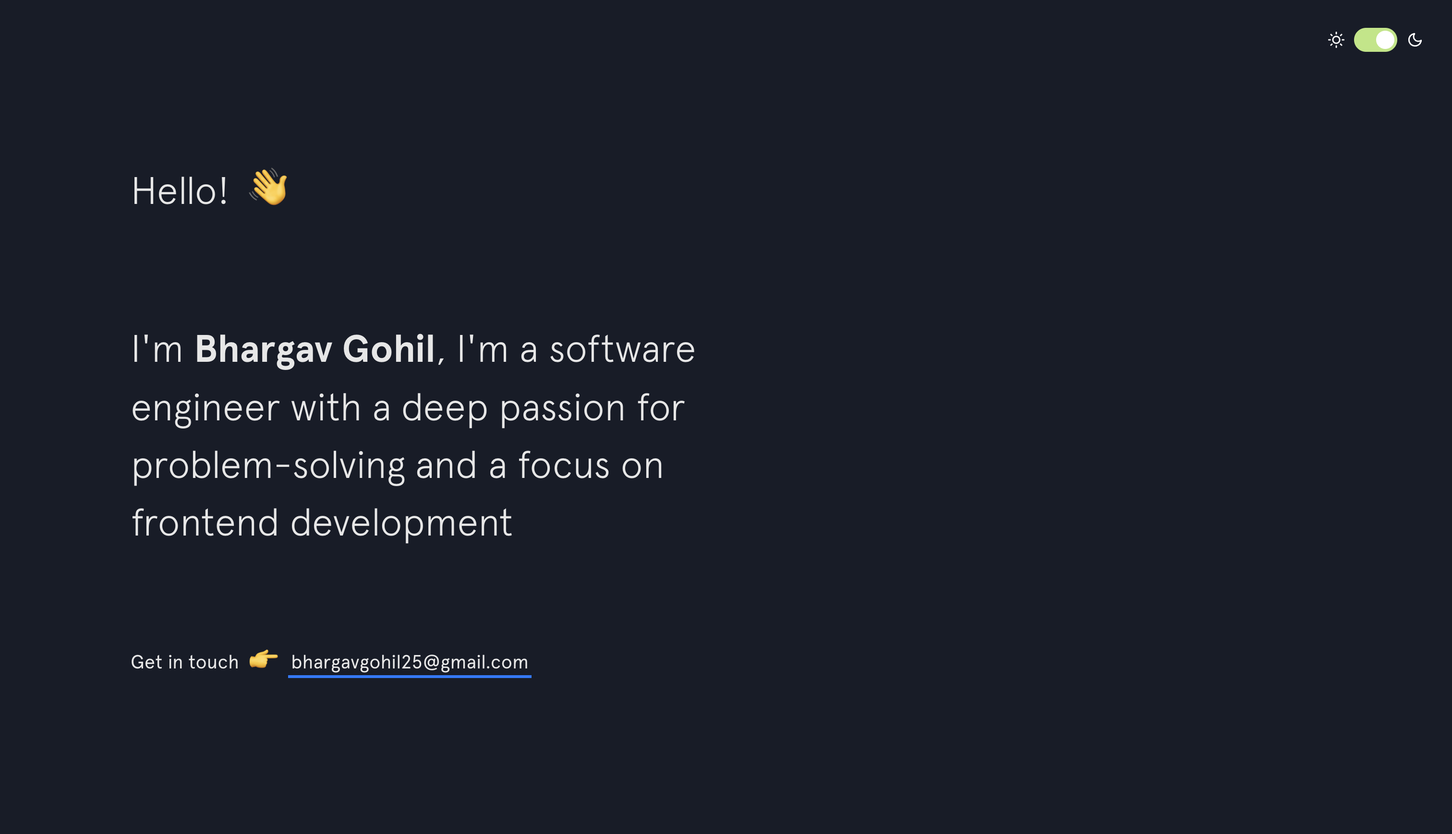
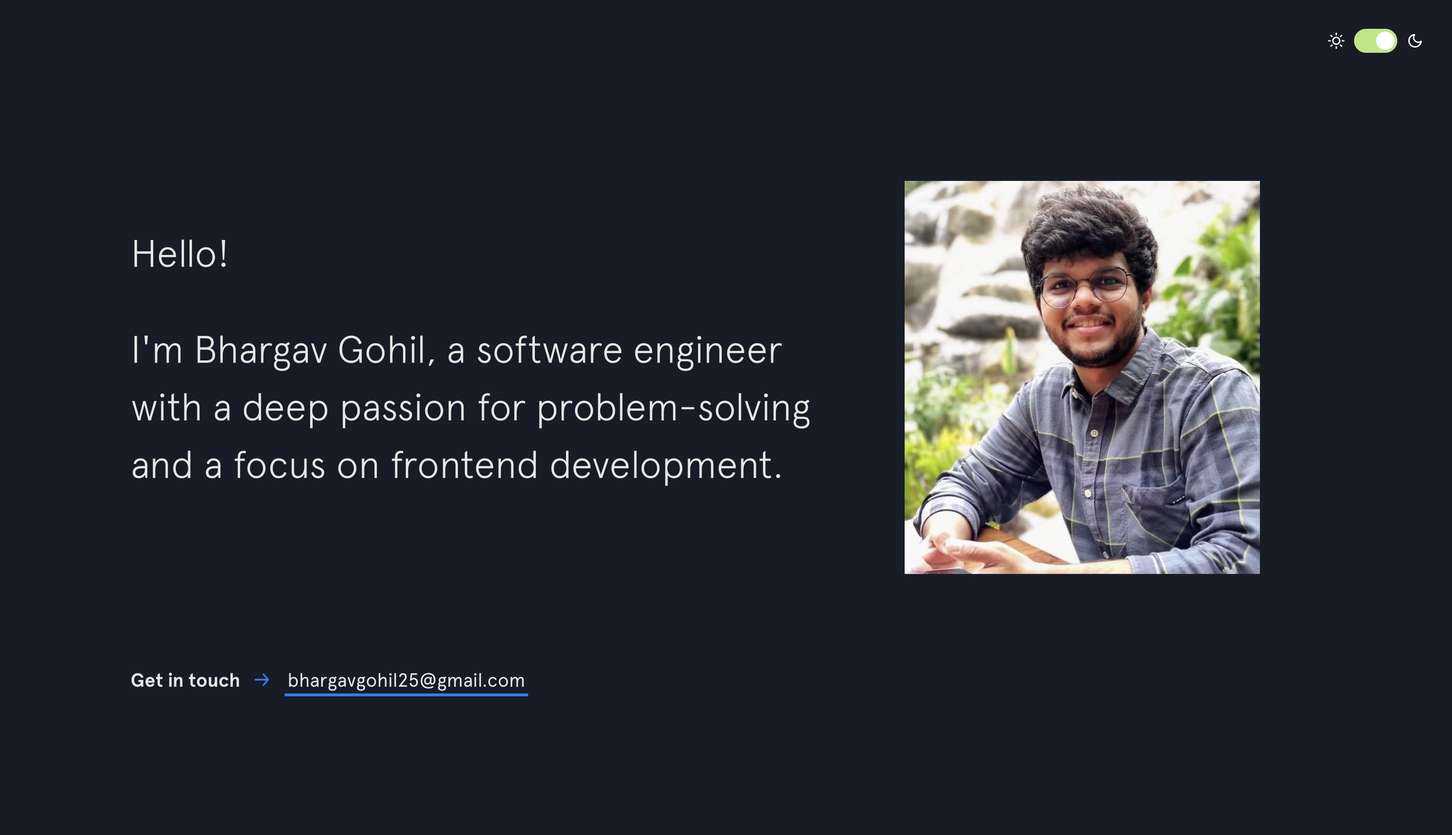
update

diff --git a/css/main.css b/css/main.css
@@ -1,1 +1,1 @@
-@font-face{font-family:Apercu;src:url(../fonts/apercu/Apercu-Light.eot);src:url(../fonts/apercu/Apercu-Light.eot?#iefix) format("embedded-opentype"),url(../fonts/apercu/Apercu-Light.woff2) format("woff2"),url(../fonts/apercu/Apercu-Light.woff) format("woff"),url(../fonts/apercu/Apercu-Light.ttf) format("truetype"),url(../fonts/apercu/Apercu-Light.svg#Apercu-Light) format("svg");font-weight:300;font-style:normal}@font-face{font-family:Apercu;src:url(../fonts/apercu/Apercu-LightItalic.eot);src:url(../fonts/apercu/Apercu-LightItalic.eot?#iefix) format("embedded-opentype"),url(../fonts/apercu/Apercu-LightItalic.woff2) format("woff2"),url(../fonts/apercu/Apercu-LightItalic.woff) format("woff"),url(../fonts/apercu/Apercu-LightItalic.ttf) format("truetype"),url(../fonts/apercu/Apercu-LightItalic.svg#Apercu-LightItalic) format("svg");font-weight:300;font-style:italic}@font-face{font-family:Apercu;src:url(../fonts/apercu/Apercu-Regular.eot);src:url(../fonts/apercu/Apercu-Regular.eot?#iefix) format("embedded-opentype"),url(../fonts/apercu/Apercu-Regular.woff2) format("woff2"),url(../fonts/apercu/Apercu-Regular.woff) format("woff"),url(../fonts/apercu/Apercu-Regular.ttf) format("truetype"),url(../fonts/apercu/Apercu-Regular.svg#Apercu-Regular) format("svg");font-weight:400;font-style:normal}@font-face{font-family:Apercu;src:url(../fonts/apercu/Apercu-Italic.eot);src:url(../fonts/apercu/Apercu-Italic.eot?#iefix) format("embedded-opentype"),url(../fonts/apercu/Apercu-Italic.woff2) format("woff2"),url(../fonts/apercu/Apercu-Italic.woff) format("woff"),url(../fonts/apercu/Apercu-Italic.ttf) format("truetype"),url(../fonts/apercu/Apercu-Italic.svg#Apercu-Italic) format("svg");font-weight:400;font-style:italic}@font-face{font-family:Apercu;src:url(../fonts/apercu/Apercu-Medium.eot);src:url(../fonts/apercu/Apercu-Medium.eot?#iefix) format("embedded-opentype"),url(../fonts/apercu/Apercu-Medium.woff2) format("woff2"),url(../fonts/apercu/Apercu-Medium.woff) format("woff"),url(../fonts/apercu/Apercu-Medium.ttf) format("truetype"),url(../fonts/apercu/Apercu-Medium.svg#Apercu-Medium) format("svg");font-weight:500;font-style:normal}@font-face{font-family:Apercu;src:url(../fonts/apercu/Apercu-MediumItalic.eot);src:url(../fonts/apercu/Apercu-MediumItalic.eot?#iefix) format("embedded-opentype"),url(../fonts/apercu/Apercu-MediumItalic.woff2) format("woff2"),url(../fonts/apercu/Apercu-MediumItalic.woff) format("woff"),url(../fonts/apercu/Apercu-MediumItalic.ttf) format("truetype"),url(../fonts/apercu/Apercu-MediumItalic.svg#Apercu-MediumItalic) format("svg");font-weight:500;font-style:italic}@font-face{font-family:Apercu;src:url(../fonts/apercu/Apercu-Bold.eot);src:url(../fonts/apercu/Apercu-Bold.eot?#iefix) format("embedded-opentype"),url(../fonts/apercu/Apercu-Bold.woff2) format("woff2"),url(../fonts/apercu/Apercu-Bold.woff) format("woff"),url(../fonts/apercu/Apercu-Bold.ttf) format("truetype"),url(../fonts/apercu/Apercu-Bold.svg#Apercu-Bold) format("svg");font-weight:700;font-style:normal}@font-face{font-family:Apercu;src:url(../fonts/apercu/Apercu-BoldItalic.eot);src:url(../fonts/apercu/Apercu-BoldItalic.eot?#iefix) format("embedded-opentype"),url(../fonts/apercu/Apercu-BoldItalic.woff2) format("woff2"),url(../fonts/apercu/Apercu-BoldItalic.woff) format("woff"),url(../fonts/apercu/Apercu-BoldItalic.ttf) format("truetype"),url(../fonts/apercu/Apercu-BoldItalic.svg#Apercu-BoldItalic) format("svg");font-weight:700;font-style:italic}html{-webkit-box-sizing:border-box;box-sizing:border-box}*,:after,:before{-webkit-box-sizing:inherit;box-sizing:inherit}::-moz-selection{background:#ffdc00}::selection{background:#ffdc00}body,html{margin:0;padding:0;-webkit-font-smoothing:antialiased;-moz-osx-font-smoothing:grayscale;background-color:#fff;color:#444452;font-family:Apercu,"Source Sans Pro",system,system-ui,-apple-system,BlinkMacSystemFont,Roboto,Helvetica,Arial,sans-serif;line-height:1.5;width:100%}body.night,html.night{background-color:#171c28;color:#afafbf}body.night ::-moz-selection,html.night ::-moz-selection{color:#36363c;background:#ffdc00}body.night ::selection,html.night ::selection{color:#36363c;background:#ffdc00}body.night .switch-wrapper .sun,html.night .switch-wrapper .sun{background:url(../img/switch/sun-white.svg) no-repeat center;background-size:100%}body.night .switch-wrapper .moon,html.night .switch-wrapper .moon{background:url(../img/switch/moon-white.svg) no-repeat center;background-size:100%}body.night .experience .job__time,body.night .footer__copyright,body.night .intro,body.night .skills .skillz__category__label,body.night .status,body.night a,body.night strong,html.night .experience .job__time,html.night .footer__copyright,html.night .intro,html.night .skills .skillz__category__label,html.night .status,html.night a,html.night strong{color:#e7e7e7}body.night .section__content .underline-link:after,html.night .section__content .underline-link:after{background:#e7e7e7}a{-webkit-transition:all .2s ease-in-out;transition:all .2s ease-in-out;text-decoration:none;font-weight:700;color:inherit}ul{list-style:none;padding:0;margin:0}svg{width:100%;height:100%;fill:currentColor}img{max-width:100%;vertical-align:middle}strong{font-weight:700;color:#36363c}.emoji{display:inline-block;vertical-align:text-top;background-size:contain;background-repeat:no-repeat;background-position:center}.section{display:-webkit-box;display:-ms-flexbox;display:flex;-webkit-box-pack:center;-ms-flex-pack:center;justify-content:center;padding:100px 170px}@media screen and (max-width:1280px){.section{padding:100px}}@media screen and (max-width:1024px){.section{padding:50px}}@media screen and (max-width:768px){.section{display:block}}@media screen and (max-width:480px){.section{padding:50px 35px}}.section__title{-ms-flex-negative:0;flex-shrink:0;width:200px;margin-right:70px;color:#007bff;text-transform:uppercase;text-align:right;font-weight:700;letter-spacing:2px}@media screen and (max-width:1024px){.section__title{margin-right:50px}}@media screen and (max-width:850px){.section__title{width:150px}}@media screen and (max-width:768px){.section__title{text-align:left;width:auto}}.section__content{font-weight:300;font-size:1rem;width:100%;max-width:650px}@media screen and (max-width:768px){.section__content{padding-top:30px;padding-left:50px}}@media screen and (max-width:480px){.section__content{padding-left:30px}}.section__content p{margin-top:0;margin-bottom:25px}.section__content .underline-link{position:relative;display:inline-block}.section__content .underline-link:after{position:absolute;top:100%;left:0;width:100%;height:1px;background:#36363c;content:'';opacity:0;-webkit-transition:height .3s,opacity .3s,-webkit-transform .3s;transition:height .3s,opacity .3s,-webkit-transform .3s;transition:height .3s,opacity .3s,transform .3s;transition:height .3s,opacity .3s,transform .3s,-webkit-transform .3s;-webkit-transform:translateY(-5px);transform:translateY(-5px)}.section__content .underline-link:focus:after,.section__content .underline-link:hover:after{height:2px;border-radius:3px;opacity:1;-webkit-transform:translateY(-2px);transform:translateY(-2px)}.arrow-link{-webkit-transition:all .2s ease-in-out;transition:all .2s ease-in-out;font-weight:700;display:inline-block;background-color:transparent;white-space:nowrap}.arrow-link:after{-webkit-transition:all .2s ease-in-out;transition:all .2s ease-in-out;position:relative;bottom:2px;margin-left:15px;content:'';background:url(../img/arrow.png) no-repeat center;background-size:100%;width:15px;height:15px;display:inline-block;vertical-align:middle}.arrow-link:hover:after{-webkit-transform:translateX(7px);transform:translateX(7px)}.small{font-family:Inconsolata,monospace;font-size:.85rem;display:inline-block;margin-top:15px}.small:after{display:none}#top-button{-webkit-transition:all .2s ease-in-out;transition:all .2s ease-in-out;background:0 0;border:none;outline:0;width:40px;position:fixed;bottom:25px;right:10px;cursor:pointer;display:none}@media screen and (max-width:1024px){#top-button{bottom:20px;right:7px;width:35px}}@media screen and (max-width:480px){#top-button{bottom:15px;right:3px}}#top-button:focus,#top-button:hover{-webkit-transform:translateY(-10px);transform:translateY(-10px)}#top-button img{width:100%}.waypoint{opacity:0;-webkit-transform:translate3d(0,20px,0);transform:translate3d(0,20px,0);-webkit-transition:opacity .6s cubic-bezier(.694,0,.335,1),-webkit-transform .6s cubic-bezier(.694,0,.335,1);transition:opacity .6s cubic-bezier(.694,0,.335,1),-webkit-transform .6s cubic-bezier(.694,0,.335,1);transition:opacity .6s cubic-bezier(.694,0,.335,1),transform .6s cubic-bezier(.694,0,.335,1);transition:opacity .6s cubic-bezier(.694,0,.335,1),transform .6s cubic-bezier(.694,0,.335,1),-webkit-transform .6s cubic-bezier(.694,0,.335,1)}.in-view{opacity:1;-webkit-transform:translateZ(0);transform:translateZ(0)}.switch-wrapper{display:-webkit-box;display:-ms-flexbox;display:flex;-webkit-box-pack:center;-ms-flex-pack:center;justify-content:center;-webkit-box-align:center;-ms-flex-align:center;align-items:center;position:absolute;top:20px;right:30px}@media screen and (max-width:480px){.switch-wrapper{top:10px;right:20px}}.switch-wrapper .moon,.switch-wrapper .sun{width:17px;height:17px}.switch-wrapper .sun{background:url(../img/switch/sun.svg) no-repeat center;background-size:100%}.switch-wrapper .moon{background:url(../img/switch/moon.svg) no-repeat center;background-size:100%}.switch-wrapper .toggle-wrapper{margin:10px}.switch-wrapper .toggle-wrapper #switch{height:0;width:0;visibility:hidden;position:absolute}.switch-wrapper .toggle-wrapper #switch:checked+label{background:#bae67e}.switch-wrapper .toggle-wrapper #switch:checked+label:after{left:calc(100% - 3px);-webkit-transform:translateX(-100%);transform:translateX(-100%)}.switch-wrapper .toggle-wrapper label{cursor:pointer;text-indent:-9999px;width:45px;height:25px;background:grey;display:block;border-radius:100px;position:relative}.switch-wrapper .toggle-wrapper label:after{-webkit-transition:all .2s ease-in-out;transition:all .2s ease-in-out;content:'';position:absolute;top:3px;left:3px;width:19px;height:19px;background:#fff;border-radius:100%}.profile-container{display:-webkit-box;display:-ms-flexbox;display:flex;-webkit-box-orient:horizontal;-webkit-box-direction:normal;-ms-flex-direction:row;flex-direction:row;-webkit-box-align:center;-ms-flex-align:center;align-items:center}.intro{padding:120px 100px;height:100vh;display:-webkit-box;display:-ms-flexbox;display:flex;-webkit-box-orient:vertical;-webkit-box-direction:normal;-ms-flex-direction:column;flex-direction:column;-ms-flex-pack:distribute;justify-content:space-around;max-width:1440px;margin:0 auto}@media screen and (max-width:630px){.intro{padding:120px 70px}}@media screen and (max-width:550px){.intro{padding:120px 50px}}@media screen and (max-width:480px){.intro{padding:70px 50px}}.intro__hello,.intro__tagline{font-size:2.5rem}@media screen and (max-width:1024px){.intro__hello,.intro__tagline{font-size:2.25rem}}@media screen and (max-width:768px){.intro__hello,.intro__tagline{font-size:2rem}}@media screen and (max-width:550px){.intro__hello,.intro__tagline{font-size:1.75rem}}@media screen and (max-width:360px){.intro__hello,.intro__tagline{font-size:1.5rem}}@media screen and (max-width:330px){.intro__hello,.intro__tagline{font-size:1.4rem}}.intro__hello .emoji,.intro__tagline .emoji{width:40px;height:40px}@media screen and (max-width:1024px){.intro__hello .emoji,.intro__tagline .emoji{width:35px;height:35px}}@media screen and (max-width:768px){.intro__hello .emoji,.intro__tagline .emoji{width:30px;height:30px}}@media screen and (max-width:360px){.intro__hello .emoji,.intro__tagline .emoji{width:25px;height:25px}}.intro__hello{font-weight:300}.intro__hello .wave-hand{background-image:url(../img/emojis/wave.png);margin-left:10px;cursor:pointer}.intro__hello .wave-hand.animated{-webkit-animation-duration:1s;animation-duration:1s;-webkit-animation-fill-mode:both;animation-fill-mode:both}.intro__hello .wave-hand.wave{-webkit-animation-name:wave;animation-name:wave}@-webkit-keyframes wave{from{-webkit-transform:none;transform:none}15%{-webkit-transform:translate3d(-20%,0,0) rotate3d(0,0,1,-10deg);transform:translate3d(-20%,0,0) rotate3d(0,0,1,-10deg)}30%{-webkit-transform:translate3d(10%,0,0) rotate3d(0,0,1,7deg);transform:translate3d(10%,0,0) rotate3d(0,0,1,7deg)}45%{-webkit-transform:translate3d(-15%,0,0) rotate3d(0,0,1,-10deg);transform:translate3d(-15%,0,0) rotate3d(0,0,1,-10deg)}60%{-webkit-transform:translate3d(10%,0,0) rotate3d(0,0,1,5deg);transform:translate3d(10%,0,0) rotate3d(0,0,1,5deg)}75%{-webkit-transform:translate3d(-5%,0,0) rotate3d(0,0,1,-2deg);transform:translate3d(-5%,0,0) rotate3d(0,0,1,-2deg)}to{-webkit-transform:none;transform:none}}@keyframes wave{from{-webkit-transform:none;transform:none}15%{-webkit-transform:translate3d(-20%,0,0) rotate3d(0,0,1,-10deg);transform:translate3d(-20%,0,0) rotate3d(0,0,1,-10deg)}30%{-webkit-transform:translate3d(10%,0,0) rotate3d(0,0,1,7deg);transform:translate3d(10%,0,0) rotate3d(0,0,1,7deg)}45%{-webkit-transform:translate3d(-15%,0,0) rotate3d(0,0,1,-10deg);transform:translate3d(-15%,0,0) rotate3d(0,0,1,-10deg)}60%{-webkit-transform:translate3d(10%,0,0) rotate3d(0,0,1,5deg);transform:translate3d(10%,0,0) rotate3d(0,0,1,5deg)}75%{-webkit-transform:translate3d(-5%,0,0) rotate3d(0,0,1,-2deg);transform:translate3d(-5%,0,0) rotate3d(0,0,1,-2deg)}to{-webkit-transform:none;transform:none}}.intro__profile-image{width:40%;min-width:40%;padding:1em}.intro .intro__tagline{font-weight:300;max-width:700px}.intro .intro__tagline .name{font-weight:700}.intro .intro__tagline .technologist{background-image:url(../img/emojis/technologist.png)}.intro__contact{font-size:1.25rem;font-weight:400}@media screen and (max-width:550px){.intro__contact{font-size:1rem}}.intro__contact .emoji.pointer{background-image:url(../img/emojis/pointright.png);width:30px;height:30px;margin:0 5px;vertical-align:text-bottom}@media screen and (max-width:550px){.intro__contact .emoji.pointer{width:25px;height:25px}}.intro__contact .highlight-link{-webkit-transition:all .2s ease-in-out;transition:all .2s ease-in-out;font-weight:400;text-decoration:none;display:inline-block;padding:2px 3px;text-decoration:none;-webkit-box-shadow:inset 0 -3px 0 #007bff;box-shadow:inset 0 -3px 0 #007bff}.intro__contact .highlight-link:hover{-webkit-box-shadow:inset 0 -33px 0 0 #007bff;box-shadow:inset 0 -33px 0 0 #007bff;color:#fff}@media (max-width:768px){.profile-container{-webkit-box-orient:vertical;-webkit-box-direction:normal;-ms-flex-direction:column;flex-direction:column;-webkit-box-align:center;-ms-flex-align:center;align-items:center}.intro__profile-image{width:auto;height:auto}}.skills .skillz{display:-webkit-box;display:-ms-flexbox;display:flex;-webkit-box-pack:justify;-ms-flex-pack:justify;justify-content:space-between}@media screen and (max-width:630px){.skills .skillz{-ms-flex-wrap:wrap;flex-wrap:wrap}}@media screen and (max-width:630px){.skills .skillz__category{width:47%;margin-right:5px;margin-bottom:25px}}.skills .skillz__category__label{font-weight:700;color:#36363c;text-transform:uppercase}.skills .skillz__category__item{margin:3px 0;font-size:.9rem}.experience .jobs{margin-bottom:100px}.experience .job{margin-bottom:25px}.experience .job .time-place{display:-webkit-box;display:-ms-flexbox;display:flex;-webkit-box-pack:justify;-ms-flex-pack:justify;justify-content:space-between}@media screen and (max-width:480px){.experience .job .time-place{display:block}}.experience .job__company{font-weight:700}.experience .job__time{font-size:.9rem;font-family:Inconsolata,monospace}@media screen and (max-width:480px){.experience .job__time{font-size:.8rem}}.experience .arrow-link{font-size:1.25rem}.experience .arrow-link:after{width:20px;height:20px}.status{display:-webkit-box;display:-ms-flexbox;display:flex;-webkit-box-align:center;-ms-flex-align:center;align-items:center;font-size:1.1rem;margin-top:70px}.status__light{width:30px;height:30px;display:-webkit-box;display:-ms-flexbox;display:flex;-webkit-box-pack:center;-ms-flex-pack:center;justify-content:center;-webkit-box-align:center;-ms-flex-align:center;align-items:center}.status__light__ring{position:absolute;width:25px;height:25px;-webkit-animation:pulsate 2s ease-out;animation:pulsate 2s ease-out;-webkit-animation-iteration-count:infinite;animation-iteration-count:infinite;opacity:0;border:3px solid #bae67e;border-radius:30px}@-webkit-keyframes pulsate{0%{-webkit-transform:scale(.1,.1);transform:scale(.1,.1);opacity:0}50%{opacity:1}100%{-webkit-transform:scale(1.2,1.2);transform:scale(1.2,1.2);opacity:0}}@keyframes pulsate{0%{-webkit-transform:scale(.1,.1);transform:scale(.1,.1);opacity:0}50%{opacity:1}100%{-webkit-transform:scale(1.2,1.2);transform:scale(1.2,1.2);opacity:0}}.status__light__led{position:absolute;width:13px;height:13px;background:#bae67e;border-radius:100%}.status__message{margin-left:15px}.featured-projects a:after{display:none}.featured-projects .project{display:-webkit-box;display:-ms-flexbox;display:flex;margin-bottom:100px;margin-left:-5%;width:125%}@media screen and (max-width:1280px){.featured-projects .project{width:115%}}@media screen and (max-width:1024px){.featured-projects .project{width:105%}}@media screen and (max-width:768px){.featured-projects .project{width:100%;display:block;margin-bottom:70px}}.featured-projects .project.screentime{margin-bottom:70px}.featured-projects .project:last-of-type{margin-bottom:0}.featured-projects .project__pic{max-width:700px;overflow:visible;margin:0}.featured-projects .project__pic a{display:block}.featured-projects .project__pic.phones a{display:-webkit-box;display:-ms-flexbox;display:flex;-webkit-box-pack:justify;-ms-flex-pack:justify;justify-content:space-between}.featured-projects .project__pic.phones .phone{margin:0 -7%}.featured-projects .project__pic.phones .phone:first-of-type{margin-left:-5%}.featured-projects .project__pic img{width:100%;max-width:100%;vertical-align:bottom}.featured-projects .project__caption{width:125px;-ms-flex-negative:0;flex-shrink:0;margin-left:30px}@media screen and (max-width:768px){.featured-projects .project__caption{width:100%;margin-top:25px;margin-left:0}}.featured-projects .project__name{margin-bottom:10px}.featured-projects .project__name a{font-weight:700}.featured-projects .project p{font-size:.85rem;line-height:1.3}.other-projects .project{max-width:600px;margin-bottom:50px}.other-projects .project__name{margin-bottom:10px}.other-projects .project p{font-size:.9rem;margin-bottom:20px}.other-projects .project__used__item{display:inline-block;margin:3px 3px 3px 0;font-family:Inconsolata,monospace;font-size:.75rem;font-weight:700;padding:2px 7px;border-radius:3px;color:#007bff;border:1px solid #007bff;background:0 0}.other-projects .project__used__item:first-of-type{margin-left:0}.footer{padding:50px 80px;display:-webkit-box;display:-ms-flexbox;display:flex;-webkit-box-pack:justify;-ms-flex-pack:justify;justify-content:space-between;-webkit-box-align:center;-ms-flex-align:center;align-items:center}@media screen and (max-width:1024px){.footer{padding:50px}}@media screen and (max-width:630px){.footer{display:block}}@media screen and (max-width:480px){.footer{padding:50px 30px}}.footer__copyright{font-weight:700;width:200px}@media screen and (max-width:630px){.footer__copyright{width:auto;text-align:center;margin-bottom:25px}}@media screen and (max-width:630px){.footer__copyright .bottom,.footer__copyright .top{display:inline-block}}@media screen and (max-width:480px){.footer__copyright .bottom,.footer__copyright .top{display:block}}.footer__copyright .emoji{width:20px;height:20px;margin:0 3px;vertical-align:text-bottom}@media screen and (max-width:630px){.footer__links{display:-webkit-box;display:-ms-flexbox;display:flex;-webkit-box-pack:center;-ms-flex-pack:center;justify-content:center}}.footer__links a{position:relative;display:inline-block;color:#007bff!important;text-transform:uppercase;font-weight:700;margin:0 15px;outline:0}@media screen and (max-width:1024px){.footer__links a{margin:0 10px}}.footer__links a:after{position:absolute;top:100%;left:0;width:100%;height:1px;background:#007bff;content:'';opacity:0;-webkit-transition:height .3s,opacity .3s,-webkit-transform .3s;transition:height .3s,opacity .3s,-webkit-transform .3s;transition:height .3s,opacity .3s,transform .3s;transition:height .3s,opacity .3s,transform .3s,-webkit-transform .3s;-webkit-transform:translateY(-5px);transform:translateY(-5px)}@media screen and (max-width:850px){.footer__links a:after{display:none}}.footer__links a:focus:after,.footer__links a:hover:after{height:2px;border-radius:3px;opacity:1;-webkit-transform:translateY(0);transform:translateY(0)}.footer__links a .text{font-size:.9rem;display:inline;letter-spacing:1px}@media screen and (max-width:850px){.footer__links a .text{display:none}}.footer__links img{display:none;width:22px}@media screen and (max-width:850px){.footer__links img{display:inline-block}}.not-found{width:100%;height:100vh!important;display:-webkit-box;display:-ms-flexbox;display:flex;-webkit-box-orient:vertical;-webkit-box-direction:normal;-ms-flex-direction:column;flex-direction:column;-webkit-box-pack:center;-ms-flex-pack:center;justify-content:center;-webkit-box-align:center;-ms-flex-align:center;align-items:center;text-align:center;padding:0 20px}.not-found .name{position:absolute;top:25px;left:30px;font-weight:700;color:#007bff;font-size:1.5rem}@media screen and (max-width:480px){.not-found .name{top:20px;left:25px;font-size:1.25rem}}.not-found h1{font-size:4rem;margin:10px 0}.not-found h2{font-size:1.5rem}@media screen and (max-width:480px){.not-found h2{font-size:1.25rem}}@media screen and (max-width:360px){.not-found h2{font-size:1.1rem}}.not-found a{font-weight:700;color:#007bff!important;position:relative;display:inline-block}.not-found a:after{position:absolute;top:100%;left:0;width:100%;height:3px;background:#007bff;content:'';opacity:0;-webkit-transition:height .3s,opacity .3s,-webkit-transform .3s;transition:height .3s,opacity .3s,-webkit-transform .3s;transition:height .3s,opacity .3s,transform .3s;transition:height .3s,opacity .3s,transform .3s,-webkit-transform .3s;-webkit-transform:translateY(-10px);transform:translateY(-10px)}.not-found a:focus:after,.not-found a:hover:after{height:3px;opacity:1;-webkit-transform:translateY(-5px);transform:translateY(-5px)}
+@font-face{font-family:Apercu;src:url(../fonts/apercu/Apercu-Light.eot);src:url(../fonts/apercu/Apercu-Light.eot?#iefix) format("embedded-opentype"),url(../fonts/apercu/Apercu-Light.woff2) format("woff2"),url(../fonts/apercu/Apercu-Light.woff) format("woff"),url(../fonts/apercu/Apercu-Light.ttf) format("truetype"),url(../fonts/apercu/Apercu-Light.svg#Apercu-Light) format("svg");font-weight:300;font-style:normal}@font-face{font-family:Apercu;src:url(../fonts/apercu/Apercu-LightItalic.eot);src:url(../fonts/apercu/Apercu-LightItalic.eot?#iefix) format("embedded-opentype"),url(../fonts/apercu/Apercu-LightItalic.woff2) format("woff2"),url(../fonts/apercu/Apercu-LightItalic.woff) format("woff"),url(../fonts/apercu/Apercu-LightItalic.ttf) format("truetype"),url(../fonts/apercu/Apercu-LightItalic.svg#Apercu-LightItalic) format("svg");font-weight:300;font-style:italic}@font-face{font-family:Apercu;src:url(../fonts/apercu/Apercu-Regular.eot);src:url(../fonts/apercu/Apercu-Regular.eot?#iefix) format("embedded-opentype"),url(../fonts/apercu/Apercu-Regular.woff2) format("woff2"),url(../fonts/apercu/Apercu-Regular.woff) format("woff"),url(../fonts/apercu/Apercu-Regular.ttf) format("truetype"),url(../fonts/apercu/Apercu-Regular.svg#Apercu-Regular) format("svg");font-weight:400;font-style:normal}@font-face{font-family:Apercu;src:url(../fonts/apercu/Apercu-Italic.eot);src:url(../fonts/apercu/Apercu-Italic.eot?#iefix) format("embedded-opentype"),url(../fonts/apercu/Apercu-Italic.woff2) format("woff2"),url(../fonts/apercu/Apercu-Italic.woff) format("woff"),url(../fonts/apercu/Apercu-Italic.ttf) format("truetype"),url(../fonts/apercu/Apercu-Italic.svg#Apercu-Italic) format("svg");font-weight:400;font-style:italic}@font-face{font-family:Apercu;src:url(../fonts/apercu/Apercu-Medium.eot);src:url(../fonts/apercu/Apercu-Medium.eot?#iefix) format("embedded-opentype"),url(../fonts/apercu/Apercu-Medium.woff2) format("woff2"),url(../fonts/apercu/Apercu-Medium.woff) format("woff"),url(../fonts/apercu/Apercu-Medium.ttf) format("truetype"),url(../fonts/apercu/Apercu-Medium.svg#Apercu-Medium) format("svg");font-weight:500;font-style:normal}@font-face{font-family:Apercu;src:url(../fonts/apercu/Apercu-MediumItalic.eot);src:url(../fonts/apercu/Apercu-MediumItalic.eot?#iefix) format("embedded-opentype"),url(../fonts/apercu/Apercu-MediumItalic.woff2) format("woff2"),url(../fonts/apercu/Apercu-MediumItalic.woff) format("woff"),url(../fonts/apercu/Apercu-MediumItalic.ttf) format("truetype"),url(../fonts/apercu/Apercu-MediumItalic.svg#Apercu-MediumItalic) format("svg");font-weight:500;font-style:italic}@font-face{font-family:Apercu;src:url(../fonts/apercu/Apercu-Bold.eot);src:url(../fonts/apercu/Apercu-Bold.eot?#iefix) format("embedded-opentype"),url(../fonts/apercu/Apercu-Bold.woff2) format("woff2"),url(../fonts/apercu/Apercu-Bold.woff) format("woff"),url(../fonts/apercu/Apercu-Bold.ttf) format("truetype"),url(../fonts/apercu/Apercu-Bold.svg#Apercu-Bold) format("svg");font-weight:700;font-style:normal}@font-face{font-family:Apercu;src:url(../fonts/apercu/Apercu-BoldItalic.eot);src:url(../fonts/apercu/Apercu-BoldItalic.eot?#iefix) format("embedded-opentype"),url(../fonts/apercu/Apercu-BoldItalic.woff2) format("woff2"),url(../fonts/apercu/Apercu-BoldItalic.woff) format("woff"),url(../fonts/apercu/Apercu-BoldItalic.ttf) format("truetype"),url(../fonts/apercu/Apercu-BoldItalic.svg#Apercu-BoldItalic) format("svg");font-weight:700;font-style:italic}html{-webkit-box-sizing:border-box;box-sizing:border-box}*,:after,:before{-webkit-box-sizing:inherit;box-sizing:inherit}::-moz-selection{background:#ffdc00}::selection{background:#ffdc00}body,html{margin:0;padding:0;-webkit-font-smoothing:antialiased;-moz-osx-font-smoothing:grayscale;background-color:#fff;color:#444452;font-family:Apercu,"Source Sans Pro",system,system-ui,-apple-system,BlinkMacSystemFont,Roboto,Helvetica,Arial,sans-serif;line-height:1.5;width:100%}body.night,html.night{background-color:#171c28;color:#afafbf}body.night ::-moz-selection,html.night ::-moz-selection{color:#36363c;background:#ffdc00}body.night ::selection,html.night ::selection{color:#36363c;background:#ffdc00}body.night .switch-wrapper .sun,html.night .switch-wrapper .sun{background:url(../img/switch/sun-white.svg) no-repeat center;background-size:100%}body.night .switch-wrapper .moon,html.night .switch-wrapper .moon{background:url(../img/switch/moon-white.svg) no-repeat center;background-size:100%}body.night .experience .job__time,body.night .footer__copyright,body.night .intro,body.night .skills .skillz__category__label,body.night .status,body.night a,body.night strong,html.night .experience .job__time,html.night .footer__copyright,html.night .intro,html.night .skills .skillz__category__label,html.night .status,html.night a,html.night strong{color:#e7e7e7}body.night .section__content .underline-link:after,html.night .section__content .underline-link:after{background:#e7e7e7}a{-webkit-transition:all .2s ease-in-out;transition:all .2s ease-in-out;text-decoration:none;font-weight:700;color:inherit}ul{list-style:none;padding:0;margin:0}svg{width:100%;height:100%;fill:currentColor}img{max-width:100%;vertical-align:middle}strong{font-weight:700;color:#36363c}.emoji{display:inline-block;vertical-align:text-top;background-size:contain;background-repeat:no-repeat;background-position:center}.section{display:-webkit-box;display:-ms-flexbox;display:flex;-webkit-box-pack:center;-ms-flex-pack:center;justify-content:center;padding:100px 170px}@media screen and (max-width:1280px){.section{padding:100px}}@media screen and (max-width:1024px){.section{padding:50px}}@media screen and (max-width:768px){.section{display:block}}@media screen and (max-width:480px){.section{padding:50px 35px}}.section__title{-ms-flex-negative:0;flex-shrink:0;width:200px;margin-right:70px;color:#007bff;text-transform:uppercase;text-align:right;font-weight:700;letter-spacing:2px}@media screen and (max-width:1024px){.section__title{margin-right:50px}}@media screen and (max-width:850px){.section__title{width:150px}}@media screen and (max-width:768px){.section__title{text-align:left;width:auto}}.section__content{font-weight:300;font-size:1rem;width:100%;max-width:650px}@media screen and (max-width:768px){.section__content{padding-top:30px;padding-left:50px}}@media screen and (max-width:480px){.section__content{padding-left:30px}}.section__content p{margin-top:0;margin-bottom:25px}.section__content .underline-link{position:relative;display:inline-block}.section__content .underline-link:after{position:absolute;top:100%;left:0;width:100%;height:1px;background:#36363c;content:'';opacity:0;-webkit-transition:height .3s,opacity .3s,-webkit-transform .3s;transition:height .3s,opacity .3s,-webkit-transform .3s;transition:height .3s,opacity .3s,transform .3s;transition:height .3s,opacity .3s,transform .3s,-webkit-transform .3s;-webkit-transform:translateY(-5px);transform:translateY(-5px)}.section__content .underline-link:focus:after,.section__content .underline-link:hover:after{height:2px;border-radius:3px;opacity:1;-webkit-transform:translateY(-2px);transform:translateY(-2px)}.arrow-link{-webkit-transition:all .2s ease-in-out;transition:all .2s ease-in-out;font-weight:700;display:inline-block;background-color:transparent;white-space:nowrap}.arrow-link:after{-webkit-transition:all .2s ease-in-out;transition:all .2s ease-in-out;position:relative;bottom:2px;margin-left:15px;content:'';background:url(../img/arrow.png) no-repeat center;background-size:100%;width:15px;height:15px;display:inline-block;vertical-align:middle}.arrow-link:hover:after{-webkit-transform:translateX(7px);transform:translateX(7px)}.small{font-family:Inconsolata,monospace;font-size:.85rem;display:inline-block;margin-top:15px}.small:after{display:none}#top-button{-webkit-transition:all .2s ease-in-out;transition:all .2s ease-in-out;background:0 0;border:none;outline:0;width:40px;position:fixed;bottom:25px;right:10px;cursor:pointer;display:none}@media screen and (max-width:1024px){#top-button{bottom:20px;right:7px;width:35px}}@media screen and (max-width:480px){#top-button{bottom:15px;right:3px}}#top-button:focus,#top-button:hover{-webkit-transform:translateY(-10px);transform:translateY(-10px)}#top-button img{width:100%}.waypoint{opacity:0;-webkit-transform:translate3d(0,20px,0);transform:translate3d(0,20px,0);-webkit-transition:opacity .6s cubic-bezier(.694,0,.335,1),-webkit-transform .6s cubic-bezier(.694,0,.335,1);transition:opacity .6s cubic-bezier(.694,0,.335,1),-webkit-transform .6s cubic-bezier(.694,0,.335,1);transition:opacity .6s cubic-bezier(.694,0,.335,1),transform .6s cubic-bezier(.694,0,.335,1);transition:opacity .6s cubic-bezier(.694,0,.335,1),transform .6s cubic-bezier(.694,0,.335,1),-webkit-transform .6s cubic-bezier(.694,0,.335,1)}.in-view{opacity:1;-webkit-transform:translateZ(0);transform:translateZ(0)}.switch-wrapper{display:-webkit-box;display:-ms-flexbox;display:flex;-webkit-box-pack:center;-ms-flex-pack:center;justify-content:center;-webkit-box-align:center;-ms-flex-align:center;align-items:center;position:absolute;top:20px;right:30px}@media screen and (max-width:480px){.switch-wrapper{top:10px;right:20px}}.switch-wrapper .moon,.switch-wrapper .sun{width:17px;height:17px}.switch-wrapper .sun{background:url(../img/switch/sun.svg) no-repeat center;background-size:100%}.switch-wrapper .moon{background:url(../img/switch/moon.svg) no-repeat center;background-size:100%}.switch-wrapper .toggle-wrapper{margin:10px}.switch-wrapper .toggle-wrapper #switch{height:0;width:0;visibility:hidden;position:absolute}.switch-wrapper .toggle-wrapper #switch:checked+label{background:#bae67e}.switch-wrapper .toggle-wrapper #switch:checked+label:after{left:calc(100% - 3px);-webkit-transform:translateX(-100%);transform:translateX(-100%)}.switch-wrapper .toggle-wrapper label{cursor:pointer;text-indent:-9999px;width:45px;height:25px;background:grey;display:block;border-radius:100px;position:relative}.switch-wrapper .toggle-wrapper label:after{-webkit-transition:all .2s ease-in-out;transition:all .2s ease-in-out;content:'';position:absolute;top:3px;left:3px;width:19px;height:19px;background:#fff;border-radius:100%}.profile-container{display:-webkit-box;display:-ms-flexbox;display:flex;-webkit-box-orient:horizontal;-webkit-box-direction:normal;-ms-flex-direction:row;flex-direction:row;-webkit-box-align:center;-ms-flex-align:center;align-items:center}.intro{padding:120px 100px;height:100vh;display:-webkit-box;display:-ms-flexbox;display:flex;-webkit-box-orient:vertical;-webkit-box-direction:normal;-ms-flex-direction:column;flex-direction:column;-ms-flex-pack:distribute;justify-content:space-around;max-width:1440px;margin:0 auto}@media screen and (max-width:630px){.intro{padding:120px 70px}}@media screen and (max-width:550px){.intro{padding:120px 50px}}@media screen and (max-width:480px){.intro{padding:70px 50px}}.intro__hello,.intro__tagline{font-size:2.5rem}@media screen and (max-width:1024px){.intro__hello,.intro__tagline{font-size:2.25rem}}@media screen and (max-width:768px){.intro__hello,.intro__tagline{font-size:2rem}}@media screen and (max-width:550px){.intro__hello,.intro__tagline{font-size:1.75rem}}@media screen and (max-width:360px){.intro__hello,.intro__tagline{font-size:1.5rem}}@media screen and (max-width:330px){.intro__hello,.intro__tagline{font-size:1.4rem}}.intro__hello .emoji,.intro__tagline .emoji{width:40px;height:40px}@media screen and (max-width:1024px){.intro__hello .emoji,.intro__tagline .emoji{width:35px;height:35px}}@media screen and (max-width:768px){.intro__hello .emoji,.intro__tagline .emoji{width:30px;height:30px}}@media screen and (max-width:360px){.intro__hello .emoji,.intro__tagline .emoji{width:25px;height:25px}}.intro__hello{font-weight:300}.intro__hello .wave-hand{background-image:url(../img/emojis/wave.png);margin-left:10px;cursor:pointer}.intro__hello .wave-hand.animated{-webkit-animation-duration:1s;animation-duration:1s;-webkit-animation-fill-mode:both;animation-fill-mode:both}.intro__hello .wave-hand.wave{-webkit-animation-name:wave;animation-name:wave}@-webkit-keyframes wave{from{-webkit-transform:none;transform:none}15%{-webkit-transform:translate3d(-20%,0,0) rotate3d(0,0,1,-10deg);transform:translate3d(-20%,0,0) rotate3d(0,0,1,-10deg)}30%{-webkit-transform:translate3d(10%,0,0) rotate3d(0,0,1,7deg);transform:translate3d(10%,0,0) rotate3d(0,0,1,7deg)}45%{-webkit-transform:translate3d(-15%,0,0) rotate3d(0,0,1,-10deg);transform:translate3d(-15%,0,0) rotate3d(0,0,1,-10deg)}60%{-webkit-transform:translate3d(10%,0,0) rotate3d(0,0,1,5deg);transform:translate3d(10%,0,0) rotate3d(0,0,1,5deg)}75%{-webkit-transform:translate3d(-5%,0,0) rotate3d(0,0,1,-2deg);transform:translate3d(-5%,0,0) rotate3d(0,0,1,-2deg)}to{-webkit-transform:none;transform:none}}@keyframes wave{from{-webkit-transform:none;transform:none}15%{-webkit-transform:translate3d(-20%,0,0) rotate3d(0,0,1,-10deg);transform:translate3d(-20%,0,0) rotate3d(0,0,1,-10deg)}30%{-webkit-transform:translate3d(10%,0,0) rotate3d(0,0,1,7deg);transform:translate3d(10%,0,0) rotate3d(0,0,1,7deg)}45%{-webkit-transform:translate3d(-15%,0,0) rotate3d(0,0,1,-10deg);transform:translate3d(-15%,0,0) rotate3d(0,0,1,-10deg)}60%{-webkit-transform:translate3d(10%,0,0) rotate3d(0,0,1,5deg);transform:translate3d(10%,0,0) rotate3d(0,0,1,5deg)}75%{-webkit-transform:translate3d(-5%,0,0) rotate3d(0,0,1,-2deg);transform:translate3d(-5%,0,0) rotate3d(0,0,1,-2deg)}to{-webkit-transform:none;transform:none}}.intro__profile-image{width:35%;min-width:35%;padding:1em;margin:1em}.intro .intro__tagline{font-weight:300;max-width:700px}.intro .intro__tagline .name{font-weight:700}.intro .intro__tagline .technologist{background-image:url(../img/emojis/technologist.png)}.intro__contact{font-size:1.25rem;font-weight:400}@media screen and (max-width:550px){.intro__contact{font-size:1rem}}.intro__contact .emoji.pointer{background-image:url(../img/emojis/pointright.png);width:30px;height:30px;margin:0 5px;vertical-align:text-bottom}@media screen and (max-width:550px){.intro__contact .emoji.pointer{width:25px;height:25px}}.intro__contact .highlight-link{-webkit-transition:all .2s ease-in-out;transition:all .2s ease-in-out;font-weight:400;text-decoration:none;display:inline-block;padding:2px 3px;text-decoration:none;-webkit-box-shadow:inset 0 -3px 0 #007bff;box-shadow:inset 0 -3px 0 #007bff}.intro__contact .highlight-link:hover{-webkit-box-shadow:inset 0 -33px 0 0 #007bff;box-shadow:inset 0 -33px 0 0 #007bff;color:#fff}@media (max-width:768px){.profile-container{-webkit-box-orient:vertical;-webkit-box-direction:normal;-ms-flex-direction:column;flex-direction:column;-webkit-box-align:center;-ms-flex-align:center;align-items:center}.intro__profile-image{width:auto;height:auto}}.skills .skillz{display:-webkit-box;display:-ms-flexbox;display:flex;-webkit-box-pack:justify;-ms-flex-pack:justify;justify-content:space-between}@media screen and (max-width:630px){.skills .skillz{-ms-flex-wrap:wrap;flex-wrap:wrap}}@media screen and (max-width:630px){.skills .skillz__category{width:47%;margin-right:5px;margin-bottom:25px}}.skills .skillz__category__label{font-weight:700;color:#36363c;text-transform:uppercase}.skills .skillz__category__item{margin:3px 0;font-size:.9rem}.experience .jobs{margin-bottom:100px}.experience .job{margin-bottom:25px}.experience .job .time-place{display:-webkit-box;display:-ms-flexbox;display:flex;-webkit-box-pack:justify;-ms-flex-pack:justify;justify-content:space-between}@media screen and (max-width:480px){.experience .job .time-place{display:block}}.experience .job__company{font-weight:700}.experience .job__time{font-size:.9rem;font-family:Inconsolata,monospace}@media screen and (max-width:480px){.experience .job__time{font-size:.8rem}}.experience .arrow-link{font-size:1.25rem}.experience .arrow-link:after{width:20px;height:20px}.status{display:-webkit-box;display:-ms-flexbox;display:flex;-webkit-box-align:center;-ms-flex-align:center;align-items:center;font-size:1.1rem;margin-top:70px}.status__light{width:30px;height:30px;display:-webkit-box;display:-ms-flexbox;display:flex;-webkit-box-pack:center;-ms-flex-pack:center;justify-content:center;-webkit-box-align:center;-ms-flex-align:center;align-items:center}.status__light__ring{position:absolute;width:25px;height:25px;-webkit-animation:pulsate 2s ease-out;animation:pulsate 2s ease-out;-webkit-animation-iteration-count:infinite;animation-iteration-count:infinite;opacity:0;border:3px solid #bae67e;border-radius:30px}@-webkit-keyframes pulsate{0%{-webkit-transform:scale(.1,.1);transform:scale(.1,.1);opacity:0}50%{opacity:1}100%{-webkit-transform:scale(1.2,1.2);transform:scale(1.2,1.2);opacity:0}}@keyframes pulsate{0%{-webkit-transform:scale(.1,.1);transform:scale(.1,.1);opacity:0}50%{opacity:1}100%{-webkit-transform:scale(1.2,1.2);transform:scale(1.2,1.2);opacity:0}}.status__light__led{position:absolute;width:13px;height:13px;background:#bae67e;border-radius:100%}.status__message{margin-left:15px}.featured-projects a:after{display:none}.featured-projects .project{display:-webkit-box;display:-ms-flexbox;display:flex;margin-bottom:100px;margin-left:-5%;width:125%}@media screen and (max-width:1280px){.featured-projects .project{width:115%}}@media screen and (max-width:1024px){.featured-projects .project{width:105%}}@media screen and (max-width:768px){.featured-projects .project{width:100%;display:block;margin-bottom:70px}}.featured-projects .project.screentime{margin-bottom:70px}.featured-projects .project:last-of-type{margin-bottom:0}.featured-projects .project__pic{max-width:700px;overflow:visible;margin:0}.featured-projects .project__pic a{display:block}.featured-projects .project__pic.phones a{display:-webkit-box;display:-ms-flexbox;display:flex;-webkit-box-pack:justify;-ms-flex-pack:justify;justify-content:space-between}.featured-projects .project__pic.phones .phone{margin:0 -7%}.featured-projects .project__pic.phones .phone:first-of-type{margin-left:-5%}.featured-projects .project__pic img{width:100%;max-width:100%;vertical-align:bottom}.featured-projects .project__caption{width:125px;-ms-flex-negative:0;flex-shrink:0;margin-left:30px}@media screen and (max-width:768px){.featured-projects .project__caption{width:100%;margin-top:25px;margin-left:0}}.featured-projects .project__name{margin-bottom:10px}.featured-projects .project__name a{font-weight:700}.featured-projects .project p{font-size:.85rem;line-height:1.3}.other-projects .project{max-width:600px;margin-bottom:50px}.other-projects .project__name{margin-bottom:10px}.other-projects .project p{font-size:.9rem;margin-bottom:20px}.other-projects .project__used__item{display:inline-block;margin:3px 3px 3px 0;font-family:Inconsolata,monospace;font-size:.75rem;font-weight:700;padding:2px 7px;border-radius:3px;color:#007bff;border:1px solid #007bff;background:0 0}.other-projects .project__used__item:first-of-type{margin-left:0}.footer{padding:50px 80px;display:-webkit-box;display:-ms-flexbox;display:flex;-webkit-box-pack:justify;-ms-flex-pack:justify;justify-content:space-between;-webkit-box-align:center;-ms-flex-align:center;align-items:center}@media screen and (max-width:1024px){.footer{padding:50px}}@media screen and (max-width:630px){.footer{display:block}}@media screen and (max-width:480px){.footer{padding:50px 30px}}.footer__copyright{font-weight:700;width:200px}@media screen and (max-width:630px){.footer__copyright{width:auto;text-align:center;margin-bottom:25px}}@media screen and (max-width:630px){.footer__copyright .bottom,.footer__copyright .top{display:inline-block}}@media screen and (max-width:480px){.footer__copyright .bottom,.footer__copyright .top{display:block}}.footer__copyright .emoji{width:20px;height:20px;margin:0 3px;vertical-align:text-bottom}@media screen and (max-width:630px){.footer__links{display:-webkit-box;display:-ms-flexbox;display:flex;-webkit-box-pack:center;-ms-flex-pack:center;justify-content:center}}.footer__links a{position:relative;display:inline-block;color:#007bff!important;text-transform:uppercase;font-weight:700;margin:0 15px;outline:0}@media screen and (max-width:1024px){.footer__links a{margin:0 10px}}.footer__links a:after{position:absolute;top:100%;left:0;width:100%;height:1px;background:#007bff;content:'';opacity:0;-webkit-transition:height .3s,opacity .3s,-webkit-transform .3s;transition:height .3s,opacity .3s,-webkit-transform .3s;transition:height .3s,opacity .3s,transform .3s;transition:height .3s,opacity .3s,transform .3s,-webkit-transform .3s;-webkit-transform:translateY(-5px);transform:translateY(-5px)}@media screen and (max-width:850px){.footer__links a:after{display:none}}.footer__links a:focus:after,.footer__links a:hover:after{height:2px;border-radius:3px;opacity:1;-webkit-transform:translateY(0);transform:translateY(0)}.footer__links a .text{font-size:.9rem;display:inline;letter-spacing:1px}@media screen and (max-width:850px){.footer__links a .text{display:none}}.footer__links img{display:none;width:22px}@media screen and (max-width:850px){.footer__links img{display:inline-block}}.not-found{width:100%;height:100vh!important;display:-webkit-box;display:-ms-flexbox;display:flex;-webkit-box-orient:vertical;-webkit-box-direction:normal;-ms-flex-direction:column;flex-direction:column;-webkit-box-pack:center;-ms-flex-pack:center;justify-content:center;-webkit-box-align:center;-ms-flex-align:center;align-items:center;text-align:center;padding:0 20px}.not-found .name{position:absolute;top:25px;left:30px;font-weight:700;color:#007bff;font-size:1.5rem}@media screen and (max-width:480px){.not-found .name{top:20px;left:25px;font-size:1.25rem}}.not-found h1{font-size:4rem;margin:10px 0}.not-found h2{font-size:1.5rem}@media screen and (max-width:480px){.not-found h2{font-size:1.25rem}}@media screen and (max-width:360px){.not-found h2{font-size:1.1rem}}.not-found a{font-weight:700;color:#007bff!important;position:relative;display:inline-block}.not-found a:after{position:absolute;top:100%;left:0;width:100%;height:3px;background:#007bff;content:'';opacity:0;-webkit-transition:height .3s,opacity .3s,-webkit-transform .3s;transition:height .3s,opacity .3s,-webkit-transform .3s;transition:height .3s,opacity .3s,transform .3s;transition:height .3s,opacity .3s,transform .3s,-webkit-transform .3s;-webkit-transform:translateY(-10px);transform:translateY(-10px)}.not-found a:focus:after,.not-found a:hover:after{height:3px;opacity:1;-webkit-transform:translateY(-5px);transform:translateY(-5px)}

diff --git a/_scss/partials/_intro.scss b/_scss/partials/_intro.scss
@@ -98,9 +98,10 @@
     }
   }
   &__profile-image {
-    width: 40%;
-    min-width: 40%;
+    width: 35%;
+    min-width: 35%;
     padding: 1em;
+    margin: 1em;
   }
   & &__tagline {
     font-weight: 300;
